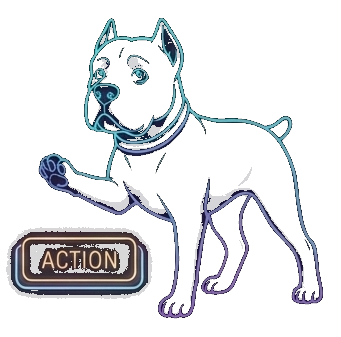
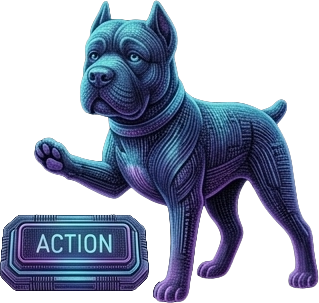
fix(ui): update Violema hero demo visuals

diff --git a/frontend/src/components/SlackPhone.tsx b/frontend/src/components/SlackPhone.tsx
@@ -50,8 +50,34 @@ const TypingBubble = () => (
   </div>
 );
 
-export default function SlackPhone({ className = '' }: { className?: string }) {
-  const [index, setIndex] = useState(0);
+type SlackPhoneVariant = 'standard' | 'hero';
+
+function HeroDimaStage() {
+  return (
+    <div className="relative shrink-0 border-b border-white/[0.07] bg-[#080b13] px-3.5 pb-3 pt-2.5">
+      <div className="relative h-[16.25rem] overflow-hidden rounded-[1.35rem] bg-[radial-gradient(circle_at_50%_24%,rgba(124,58,237,0.28),transparent_42%),linear-gradient(180deg,rgba(9,12,23,0.96),rgba(4,6,13,0.98))]">
+        <div aria-hidden className="absolute inset-x-4 top-4 h-28 rounded-full bg-cyan-400/12 blur-[44px]" />
+        <img
+          src="/brand/dima/dima-action.png"
+          alt=""
+          className="absolute left-1/2 top-4 h-[14.5rem] w-[15.25rem] -translate-x-1/2 object-contain drop-shadow-[0_18px_28px_rgba(0,0,0,0.55)]"
+          decoding="async"
+          loading="eager"
+        />
+      </div>
+    </div>
+  );
+}
+
+export default function SlackPhone({
+  className = '',
+  variant = 'standard',
+}: {
+  className?: string;
+  variant?: SlackPhoneVariant;
+}) {
+  const isHero = variant === 'hero';
+  const [index, setIndex] = useState(() => (isHero ? at('guard') : 0));
   const [active, setActive] = useState(false);
   const reduced = useRef(false);
   const timer = useRef<ReturnType<typeof setTimeout> | null>(null);
@@ -78,11 +104,14 @@ export default function SlackPhone({ className = '' }: { className?: string }) {
       setIndex(ORDER.length - 1);
       return;
     }
-    timer.current = setTimeout(() => setIndex((i) => (i + 1) % ORDER.length), DURATIONS[ORDER[index]]);
+    timer.current = setTimeout(
+      () => setIndex((i) => (isHero && i >= ORDER.length - 1 ? at('card') : (i + 1) % ORDER.length)),
+      DURATIONS[ORDER[index]],
+    );
     return () => {
       if (timer.current) clearTimeout(timer.current);
     };
-  }, [active, index]);
+  }, [active, index, isHero]);
 
   const phase = ORDER[index];
   const showSources = index >= at('sources');
@@ -139,8 +168,16 @@ export default function SlackPhone({ className = '' }: { className?: string }) {
               <Search className="h-3.5 w-3.5 flex-none text-[#7c8aa3]" />
             </div>
 
-            {/* thread (bottom-anchored, like a real chat) */}
-            <div className="flex flex-1 flex-col justify-end gap-2.5 overflow-hidden px-3.5 pb-3 pt-3">
+            {isHero ? <HeroDimaStage /> : null}
+
+            {/* thread (bottom-anchored by default; scrollable under the hero Dima stage) */}
+            <div
+              className={`flex flex-1 flex-col gap-2.5 px-3.5 pb-3 pt-3 ${
+                isHero
+                  ? 'justify-start overflow-y-auto overscroll-contain [scrollbar-color:rgba(167,139,250,0.42)_transparent] [scrollbar-width:thin]'
+                  : 'justify-end overflow-hidden'
+              }`}
+            >
               <div className="flex items-center gap-2">
                 <span className="h-px flex-1 bg-white/8" />
                 <span className="text-[0.5rem] font-bold uppercase tracking-[0.12em] text-[#7c8aa3]">Today</span>

diff --git a/frontend/src/index.css b/frontend/src/index.css
@@ -606,6 +606,22 @@
     mix-blend-mode: screen;
   }
 
+  .hero-side-mark {
+    transform: translateX(-82%);
+  }
+
+  @media (min-width: 1536px) {
+    .hero-side-mark {
+      transform: translateX(-64%);
+    }
+  }
+
+  @media (min-width: 1680px) {
+    .hero-side-mark {
+      transform: translateX(-50%);
+    }
+  }
+
   .founder-product-stage {
     perspective: 1800px;
   }

diff --git a/frontend/src/components/Hero.tsx b/frontend/src/components/Hero.tsx
@@ -184,8 +184,8 @@ function DeviceCluster() {
           <HeroTourImages index={index} />
         </div>
 
-        <div className="absolute -bottom-24 -right-5 w-[19.5rem] origin-bottom-right scale-[0.46] sm:-bottom-28 sm:-right-14 sm:scale-[0.52] lg:-bottom-16 lg:-right-12 lg:scale-[0.56]">
-          <SlackPhone />
+        <div className="absolute -bottom-20 -right-16 w-[20.5rem] origin-bottom-right scale-[0.64] xl:-right-12 xl:scale-[0.68]">
+          <SlackPhone variant="hero" />
         </div>
 
         <div className="absolute -left-6 bottom-[-4.5%] hidden sm:block lg:-left-10">
@@ -299,8 +299,15 @@ export default function Hero() {
       <div className="founder-hero-bg absolute inset-0 -z-20" />
       <div className="founder-hero-grid absolute inset-0 -z-10" />
       <div className="founder-hero-noise absolute inset-0 -z-10" />
+      <img
+        src="/brand/purple-orange-hero-mark.png"
+        alt=""
+        aria-hidden="true"
+        className="hero-side-mark pointer-events-none absolute left-0 top-[15.5rem] z-0 hidden h-44 w-44 select-none object-contain opacity-90 drop-shadow-[0_0_30px_rgba(168,85,247,0.28)] lg:block xl:top-[17rem] xl:h-56 xl:w-56"
+        decoding="async"
+      />
 
-      <div className="mx-auto max-w-[88rem] px-4 pb-16 pt-28 sm:px-6 lg:px-8 xl:pb-24 xl:pt-36">
+      <div className="relative z-10 mx-auto max-w-[88rem] px-4 pb-16 pt-28 sm:px-6 lg:px-8 xl:pb-24 xl:pt-36">
         <div className="grid items-center gap-x-12 gap-y-14 lg:grid-cols-[minmax(0,32rem)_minmax(0,1fr)]">
           <Reveal className="min-w-0">
             <HeroCopy />